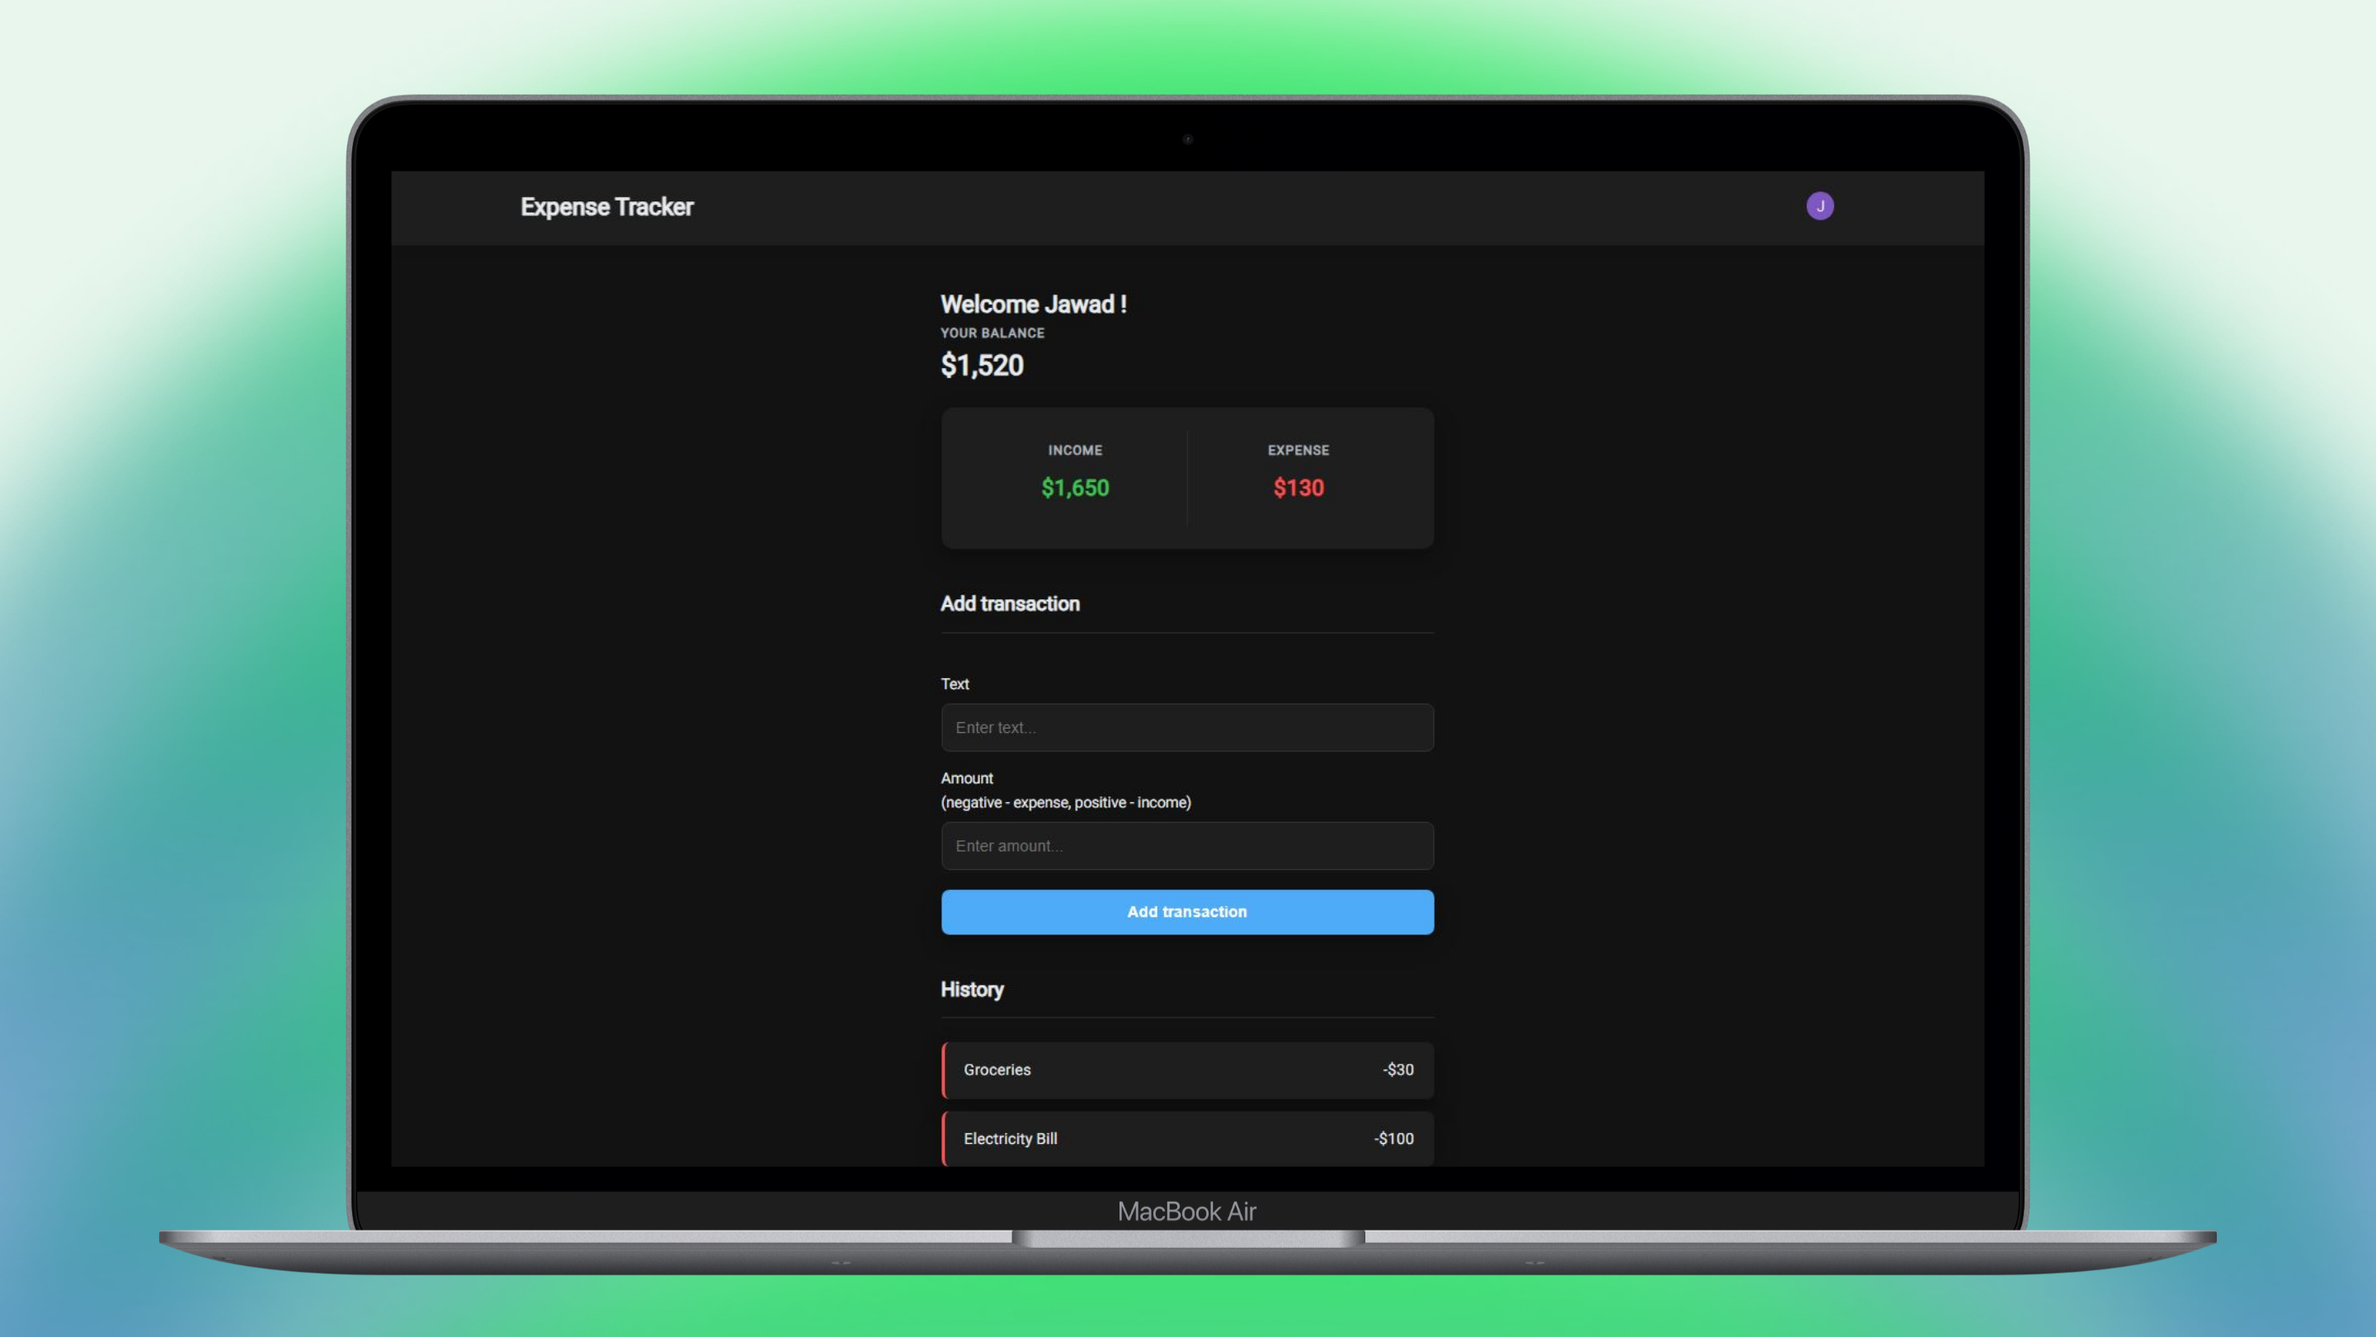
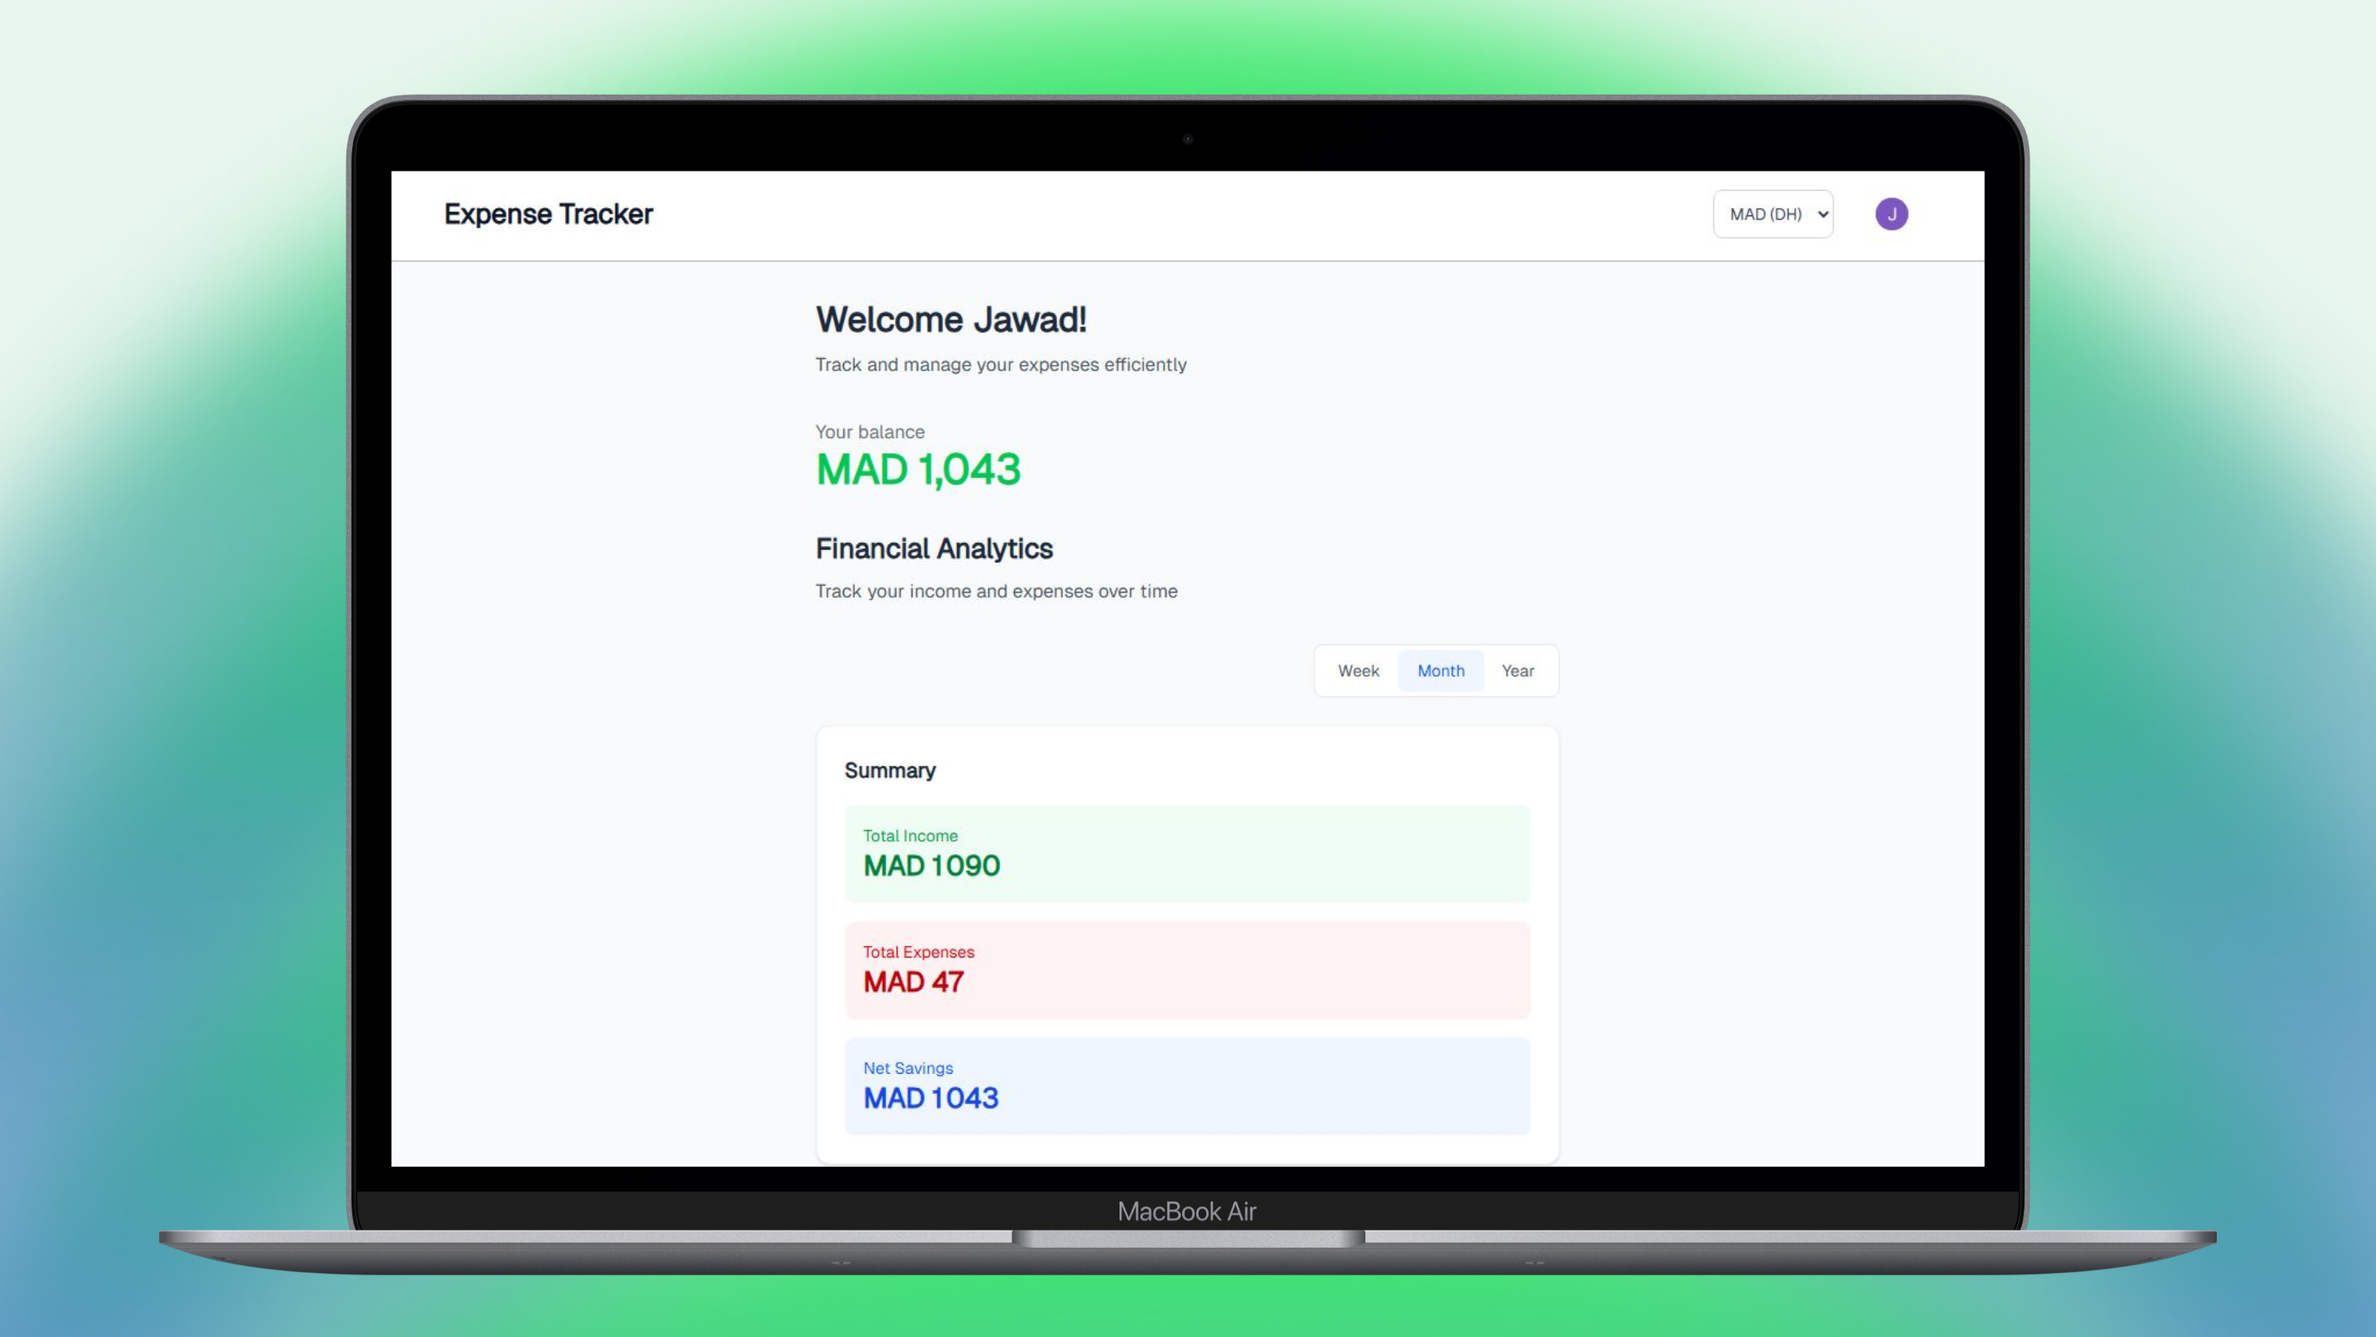
update UI

diff --git a/components/AnalyticsDashboard.tsx b/components/AnalyticsDashboard.tsx
@@ -107,6 +107,30 @@ const AnalyticsDashboard = () => {
                 </div>
             </div>
 
+            <div className="bg-white p-6 rounded-xl shadow-sm border border-gray-100 mb-8">
+                    <h3 className="text-lg font-semibold text-gray-800 mb-4">Summary</h3>
+                    <div className="space-y-4">
+                        <div className="p-4 bg-green-50 rounded-lg">
+                            <p className="text-sm text-green-600 font-medium">Total Income</p>
+                            <p className="text-2xl font-bold text-green-700">
+                                {currency} {totalIncome.toLocaleString()}
+                            </p>
+                        </div>
+                        <div className="p-4 bg-red-50 rounded-lg">
+                            <p className="text-sm text-red-600 font-medium">Total Expenses</p>
+                            <p className="text-2xl font-bold text-red-700">
+                                {currency} {totalExpenses.toLocaleString()}
+                            </p>
+                        </div>
+                        <div className="p-4 bg-blue-50 rounded-lg">
+                            <p className="text-sm text-blue-600 font-medium">Net Savings</p>
+                            <p className="text-2xl font-bold text-blue-700">
+                                {currency} {netSavings.toLocaleString()}
+                            </p>
+                        </div>
+                    </div>
+                </div>
+
             <div className="grid grid-cols-1 gap-y-6">
                 <div className="bg-white p-6 rounded-xl shadow-sm border border-gray-100">
                     <h3 className="text-lg font-semibold text-gray-800 mb-4">Income vs Expenses</h3>
@@ -158,29 +182,7 @@ const AnalyticsDashboard = () => {
                     </div>
                 </div>
 
-                <div className="bg-white p-6 rounded-xl shadow-sm border border-gray-100">
-                    <h3 className="text-lg font-semibold text-gray-800 mb-4">Summary</h3>
-                    <div className="space-y-4">
-                        <div className="p-4 bg-green-50 rounded-lg">
-                            <p className="text-sm text-green-600 font-medium">Total Income</p>
-                            <p className="text-2xl font-bold text-green-700">
-                                {currency}{totalIncome.toLocaleString()}
-                            </p>
-                        </div>
-                        <div className="p-4 bg-red-50 rounded-lg">
-                            <p className="text-sm text-red-600 font-medium">Total Expenses</p>
-                            <p className="text-2xl font-bold text-red-700">
-                                {currency}{totalExpenses.toLocaleString()}
-                            </p>
-                        </div>
-                        <div className="p-4 bg-blue-50 rounded-lg">
-                            <p className="text-sm text-blue-600 font-medium">Net Savings</p>
-                            <p className="text-2xl font-bold text-blue-700">
-                                {currency}{netSavings.toLocaleString()}
-                            </p>
-                        </div>
-                    </div>
-                </div>
+                
             </div>
         </div>
     );

diff --git a/components/PaginationButtons.tsx b/components/PaginationButtons.tsx
@@ -66,7 +66,7 @@ const PaginationButtons = ({ currentPage, totalPages }: PaginationButtonsProps) 
             <button
                 onClick={() => handlePageChange(currentPage - 1)}
                 disabled={isLoading || currentPage <= 1}
-                className={`relative flex items-center justify-center bg-blue-500 text-white px-3 py-2 rounded-lg transition-all duration-200 hover:bg-blue-600 disabled:opacity-50 disabled:cursor-not-allowed min-w-[40px]`}
+                className={`relative flex items-center justify-center bg-gray-900 text-white px-3 py-2 rounded-lg transition-all duration-200 hover:bg-gray-800 disabled:opacity-50 disabled:cursor-not-allowed min-w-[40px]`}
             >
                 ←
             </button>
@@ -83,8 +83,8 @@ const PaginationButtons = ({ currentPage, totalPages }: PaginationButtonsProps) 
                         disabled={isLoading || page === currentPage}
                         className={`relative flex items-center justify-center px-3 py-2 rounded-lg transition-all duration-200 min-w-[40px] ${
                             page === currentPage
-                                ? 'bg-blue-600 text-white cursor-default'
-                                : 'bg-blue-500 text-white hover:bg-blue-600 disabled:opacity-50 disabled:cursor-not-allowed'
+                                ? 'bg-gray-900 text-white cursor-default'
+                                : 'bg-gray-500 text-white hover:bg-gray-600 disabled:opacity-50 disabled:cursor-not-allowed'
                         }`}
                     >
                         {isLoading && page === currentPage ? (
@@ -104,7 +104,7 @@ const PaginationButtons = ({ currentPage, totalPages }: PaginationButtonsProps) 
             <button
                 onClick={() => handlePageChange(currentPage + 1)}
                 disabled={isLoading || currentPage >= totalPages}
-                className={`relative flex items-center justify-center bg-blue-500 text-white px-3 py-2 rounded-lg transition-all duration-200 hover:bg-blue-600 disabled:opacity-50 disabled:cursor-not-allowed min-w-[40px]`}
+                className={`relative flex items-center justify-center bg-gray-500 text-white px-3 py-2 rounded-lg transition-all duration-200 hover:bg-gray-600 disabled:opacity-50 disabled:cursor-not-allowed min-w-[40px]`}
             >
                 →
             </button>

diff --git a/app/globals.css b/app/globals.css
@@ -2,8 +2,8 @@
 
 :root {
   /* Light theme (default) */
-  --primary-color: #3a86ff;
-  --secondary-color: #4361ee;
+  --primary-color: oklch(72.3% 0.219 149.579);
+  --secondary-color: oklch(62.7% 0.194 149.214);
   --success-color: #38b000;
   --danger-color: #d90429;
   --text-color: #2b2d42;
@@ -104,28 +104,6 @@ body {
   justify-content: center;
 }
 
-/* Navbar styling */
-.navbar {
-  background: var(--card-bg);
-  color: var(--text-color);
-  box-shadow: 0 2px 15px rgba(0, 0, 0, 0.05);
-  position: sticky;
-  top: 0;
-  z-index: 100;
-  padding: 16px 0;
-}
-
-.navbar a {
-  color: var(--text-color);
-  text-decoration: none;
-  font-weight: 500;
-  transition: var(--transition);
-}
-
-.navbar a:hover {
-  color: var(--primary-color);
-}
-
 .navbar button,
 .guest button 
 {
@@ -140,7 +118,10 @@ body {
   font-size: 14px;
   letter-spacing: 0.3px;
 }
-
+.guest button:hover{
+  background: var(--secondary-color);
+  transition: .4s ease;
+}
 .navbar button:hover {
   background: var(--secondary-color);
   transform: translateY(-2px);
@@ -259,7 +240,7 @@ input[type='number'] {
 input[type='text']:focus,
 input[type='number']:focus {
   outline: none;
-  border-color: var(--primary-color);
+  border-color: var(--success-color);
   box-shadow: 0 0 0 3px rgba(58, 134, 255, 0.1);
 }
 
@@ -270,31 +251,6 @@ label {
   font-weight: 500;
   font-size: 15px;
   color: var(--text-color);
-}
-
-.btn {
-  cursor: pointer;
-  background-color: var(--primary-color);
-  box-shadow: var(--box-shadow);
-  color: #fff;
-  border: 0;
-  display: block;
-  font-size: 16px;
-  font-weight: 600;
-  margin: 20px 0 30px;
-  padding: 14px;
-  width: 100%;
-  border-radius: var(--small-radius);
-  transition: var(--transition);
-}
-
-.btn:hover {
-  background-color: var(--secondary-color);
-  transform: translateY(-2px);
-}
-
-.btn:active {
-  transform: translateY(0);
 }
 
 .btn:focus,

diff --git a/components/Guest.tsx b/components/Guest.tsx
@@ -1,5 +1,5 @@
 import { SignInButton } from "@clerk/nextjs";
-import HeroImage from '@/public/hero_img.png';
+import HeroImage from '@/public/Manage money-bro.svg';
 import Image from "next/image";
 import FeaturesCards from "./FeaturesCards";
 import HowToUse from "./HowToUse";
@@ -8,10 +8,10 @@ import { Suspense } from 'react'
 const Guest = () => {
     return (
         <Suspense fallback={<p>Loading...</p>}>
-            <section className="max-w-7xl mx-auto px-4 py-8">
+            <section className="max-w-7xl mx-auto lg:px-0 px-4 py-8">
                 <div className="guest grid lg:grid-cols-2 grid-cols-1 w-full gap-10 lg:min-w-7xl content-center items-center">
                     <div className="col-span-1 w-full">
-                        <Image src={HeroImage} alt="hero" width={1000} height={1000} className="hidden md:block rounded-lg rotate-x-1 border border-green-200" />
+                        <Image src={HeroImage} alt="hero" width={1000} height={1000} className="hidden md:block rounded-lg" />
                     </div>
                     <div className="col-span-1 w-full">
                         <h1 className="lg:text-5xl text-3xl font-bold mb-4">Track every penny, and get your <span className="text-green-500">fincances</span> under control.</h1>

diff --git a/components/AddTransaction.tsx b/components/AddTransaction.tsx
@@ -20,7 +20,7 @@ const AddTransaction = () => {
     }
     return ( <>
         <div className="p-4 bg-white rounded-lg shadow-md w-full">
-            <h3 className="text-blue-500 text-xl font-semibold">Add transaction</h3>
+            <h3 className="text-gray-900 text-xl font-semibold">Add transaction</h3>
             <form ref={formRef} action={ clientAction }>
                 <div className="form-control">
                 <label htmlFor="text">Text</label>
@@ -36,7 +36,7 @@ const AddTransaction = () => {
                 </label>
                 <input type="number" id="amount" name="amount" placeholder="Enter amount..." step="0.01"/>
             </div>
-            <button className="btn">Add transaction</button>
+            <button className="bg-green-500 p-4 rounded-lg w-full text-white font-bold mt-4 hover:bg-green-600 duration-200 cursor-pointer">Add transaction</button>
             </form>
         </div>
     </> );

diff --git a/app/layout.tsx b/app/layout.tsx
@@ -1,5 +1,5 @@
 import type { Metadata } from "next";
-import { Nunito } from "next/font/google";
+import { Geist } from "next/font/google";
 import { ClerkProvider } from "@clerk/nextjs";
 import "./globals.css";
 import Header from "@/components/Header";
@@ -9,7 +9,7 @@ import Footer from "@/components/Footer";
 import { CurrencyProvider } from '@/context/CurrencyContext'
 import CurrencySelector from '@/components/CurrencySelector'
 
-const nunito = Nunito({weight: '400', subsets: ["latin"]})
+const geist = Geist({weight: '400', subsets: ["latin"]})
 
 export const metadata: Metadata = {
   title: "Expense Tracker",
@@ -23,7 +23,7 @@ export default function RootLayout({
 }>) {
   return (
         <html lang="en">
-          <body className={`${nunito.className}`}>
+          <body className={`${geist.className}`}>
               <ClerkProvider>
                 <CurrencyProvider>
                       <Header />

diff --git a/components/Header.tsx b/components/Header.tsx
@@ -1,13 +1,14 @@
 import { SignInButton, SignedIn, SignedOut, UserButton } from '@clerk/nextjs'
 import { checkUser } from '@/lib/checkUser';
 import CurrencySelector from './CurrencySelector';
+import Link from 'next/link';   
 
 const Header = async () => {
     const user = await checkUser();
     return ( 
-        <nav className="navbar">
-            <div className="navbar-container">
-                <h2 className='text-2xl font-bold text-blue-600'>Expense Tracker</h2>
+        <nav className="navbar p-4 border-b border-zinc-500/50 bg-white">
+            <div className="max-w-7xl w-full m-auto flex items-center justify-between">
+                <Link href={"/"} className='text-2xl font-bold text-gray-900'>Expense Tracker</Link>
                 <div className="flex items-center gap-4">
                     <SignedIn>
                         <CurrencySelector />

diff --git a/components/HowToUse.tsx b/components/HowToUse.tsx
@@ -2,7 +2,7 @@ import mockup from '../public/mockup.png';
 import Image from 'next/image';
 const HowToUse = () => {
     return ( 
-        <section className='flex flex-col items-center py-12 border-t border-gray-200 mt-8'>
+        <section className='flex flex-col items-center py-12 mt-8'>
             <h2 className="text-4xl font-bold text-center mb-4">How to use</h2>
             <p className='text-gray-500 text-center max-w-lg mb-4'>First, sign in to your dashboard, using your Google account, then you have access to an extensive pack of features, you could vizualise your data using graphs, set budgets and more...</p>
             <Image src={mockup} alt="screenshot" width={1000} height={1000} className="rounded-xl border border-gray-300" />

diff --git a/components/LoadingScreen.tsx b/components/LoadingScreen.tsx
@@ -4,11 +4,11 @@ const LoadingScreen = () => {
     return (
         <div className="min-h-screen flex items-center justify-center bg-gray-50">
             <div className="text-center">
-                <div className="w-16 h-16 border-4 border-blue-500 border-t-transparent rounded-full animate-spin mx-auto mb-4"></div>
-                <h2 className="text-xl font-semibold text-gray-700">Loading your expenses...</h2>
+                <div className="w-16 h-16 border-4 border-green-500 border-t-transparent rounded-full animate-spin mx-auto mb-4"></div>
+                <h2 className="text-xl font-semibold text-gray-700">Loading app...</h2>
             </div>
         </div>
-    );
+    );  
 }
 
 export default LoadingScreen; 

diff --git a/components/Footer.tsx b/components/Footer.tsx
@@ -5,7 +5,7 @@ const Footer = () => {
     const year = date.getFullYear();
     return ( 
         <footer className="py-4 border-t border-gray-300 text-center text-md text-gray-700">
-            <p>Copyright {year} &copy; All rights reserved | <Link href="https://github.com/jawad-elhajjami" target="_blank" className="font-bold text-green-500 underline">EL HAJJAMI JAWAD</Link></p>
+            <p>Copyright {year} &copy; All rights reserved | <Link href="https://github.com/jawad-elhajjami" target="_blank" className="font-bold text-gray-800 border-b-2 border-gray-800">EL HAJJAMI JAWAD</Link></p>
         </footer>
     );
 }

diff --git a/components/TransactionItem.tsx b/components/TransactionItem.tsx
@@ -89,7 +89,7 @@ const TransactionItem = ({ transaction }: {transaction: Transaction}) => {
                         <button 
                             type="button" 
                             onClick={handleCancel}
-                            className="flex-1 bg-gray-500 hover:bg-gray-600 text-white font-semibold py-2 px-4 rounded-lg transition duration-200"
+                            className="flex-1 bg-gray-900 hover:bg-gray-800 text-white font-semibold py-2 px-4 rounded-lg transition duration-200"
                         >
                             Cancel
                         </button>

diff --git a/components/BalanceDisplay.tsx b/components/BalanceDisplay.tsx
@@ -23,7 +23,7 @@ const BalanceDisplay = ({ initialBalance }: BalanceDisplayProps) => {
     return (
         <>
             <h4 className="text-gray-500">Your balance</h4>
-            <h1 className={`font-bold text-2xl ${initialBalance < 0 ? 'text-red-500' : 'text-green-500'}`}>
+            <h1 className={`font-bold text-4xl mb-8 ${initialBalance < 0 ? 'text-red-600' : 'text-green-500'}`}>
                 {sign}{formatAmount(Math.abs(initialBalance), currency)}
             </h1>
         </>
